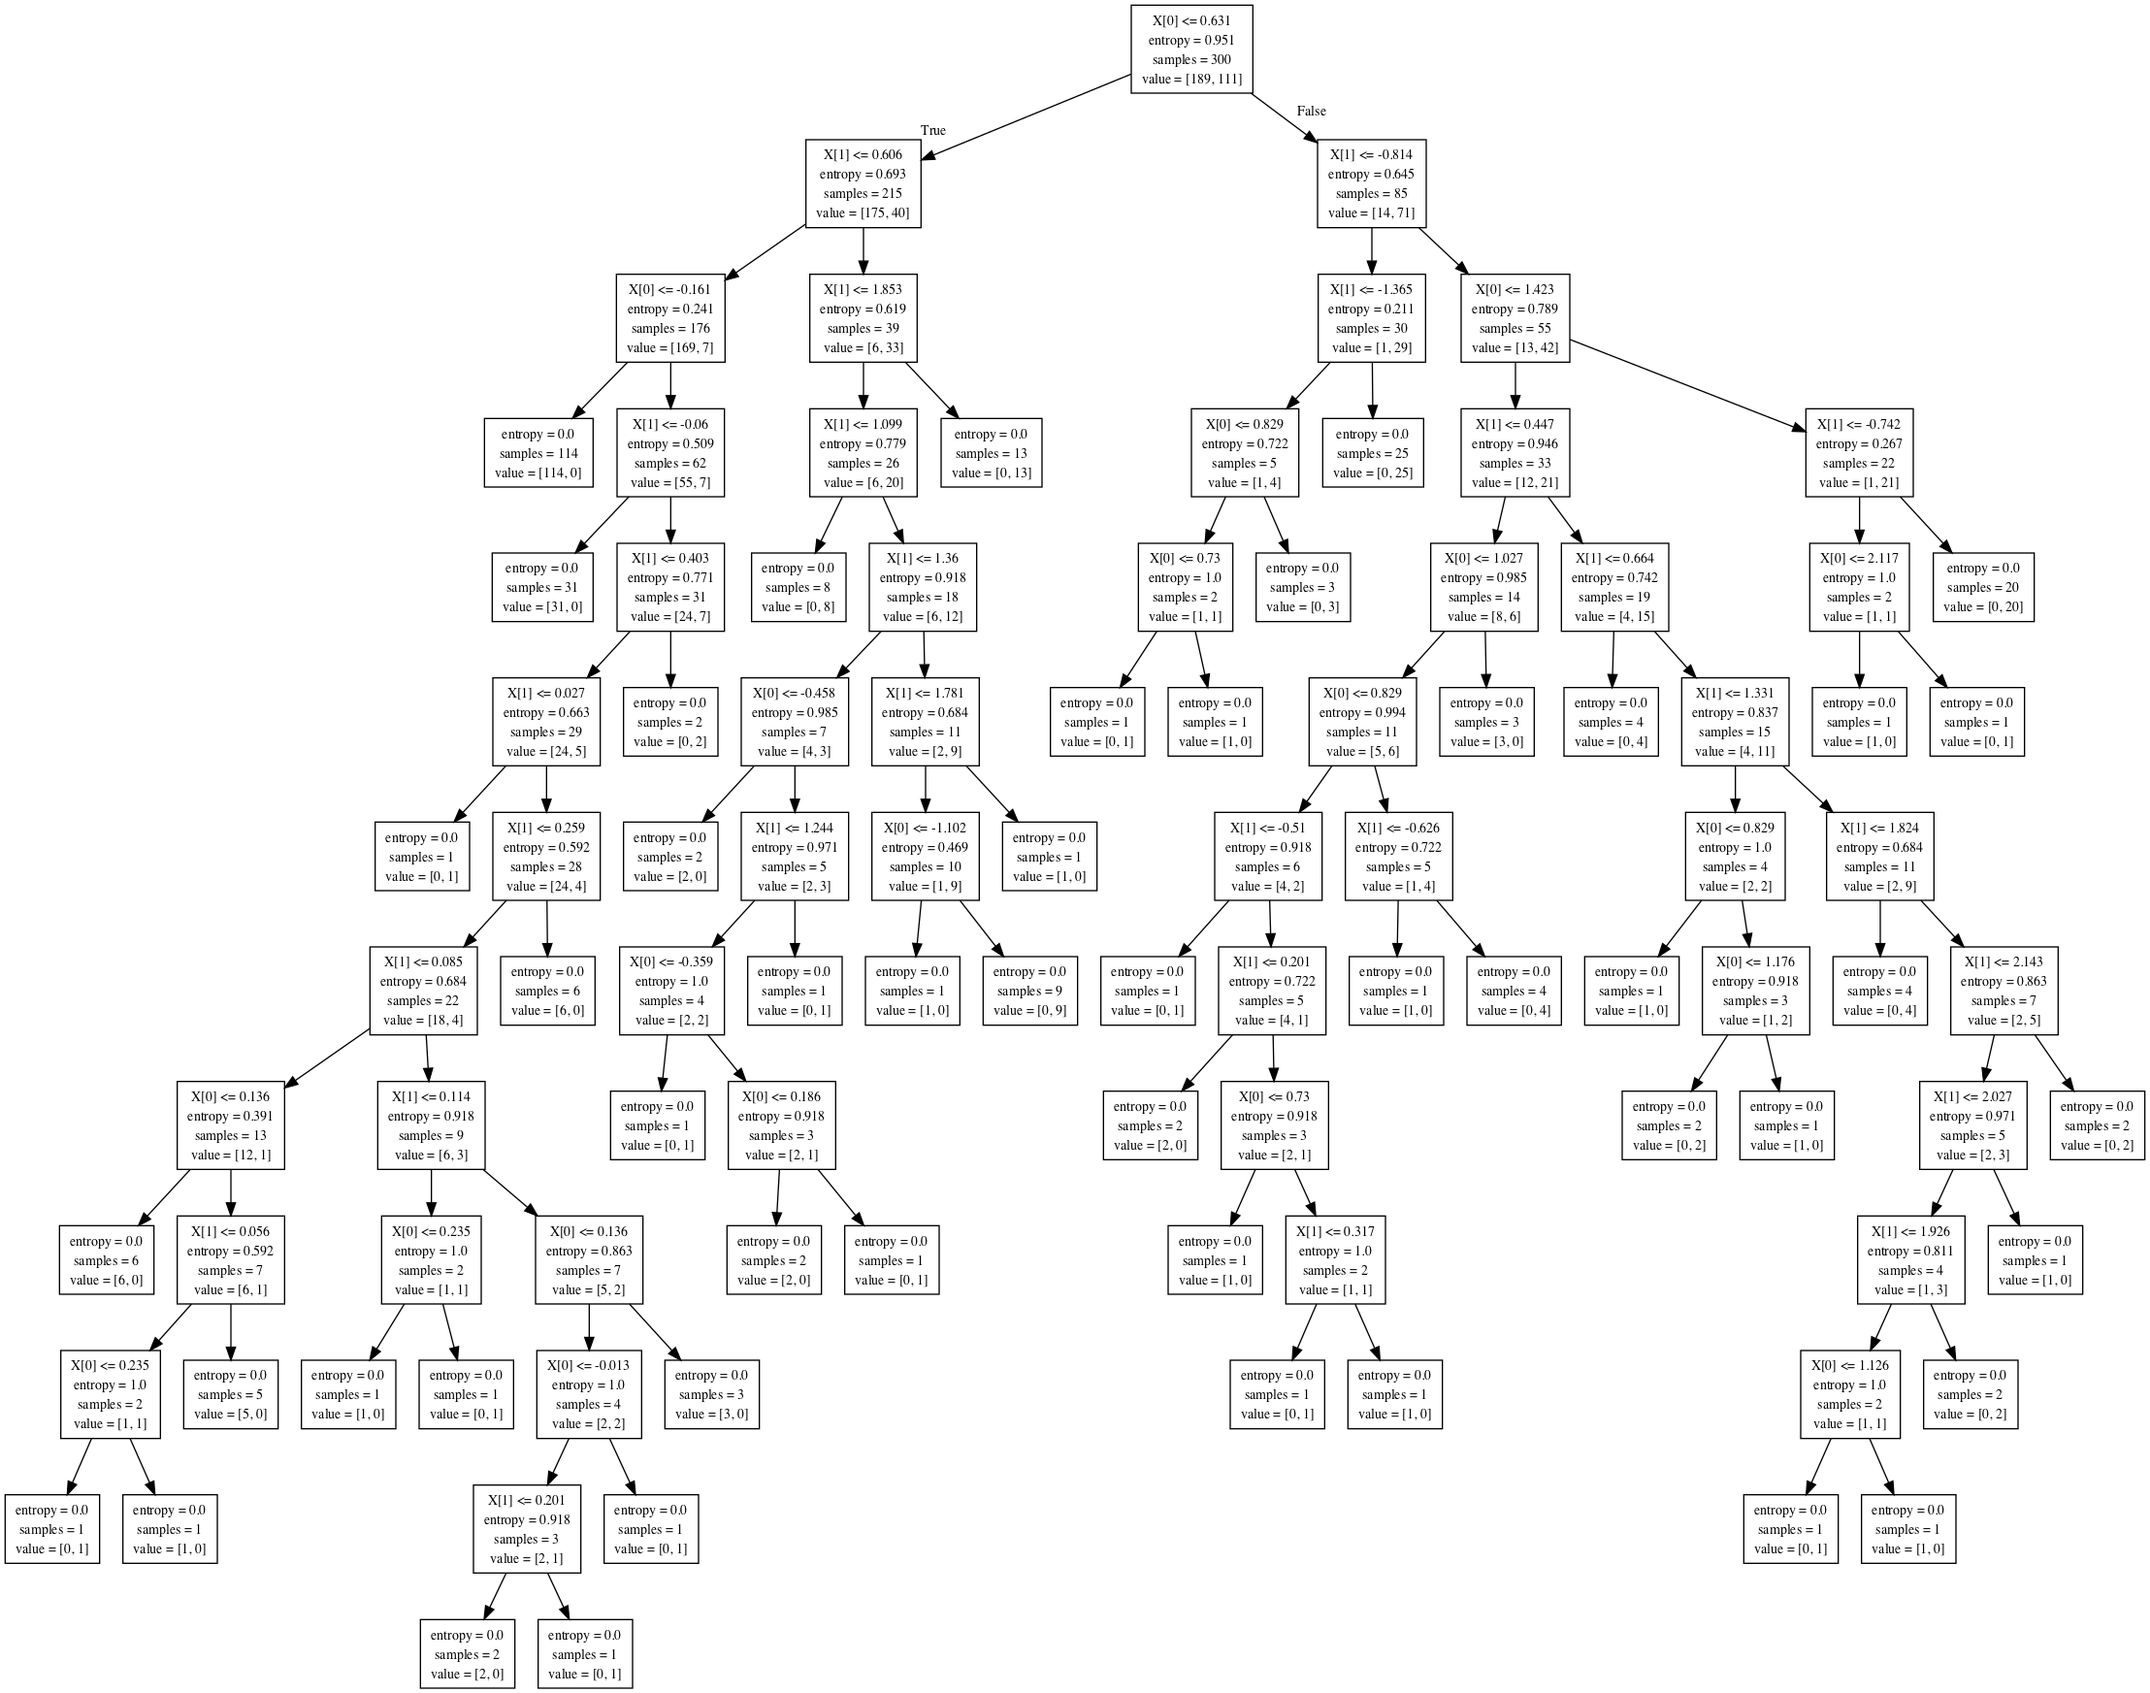
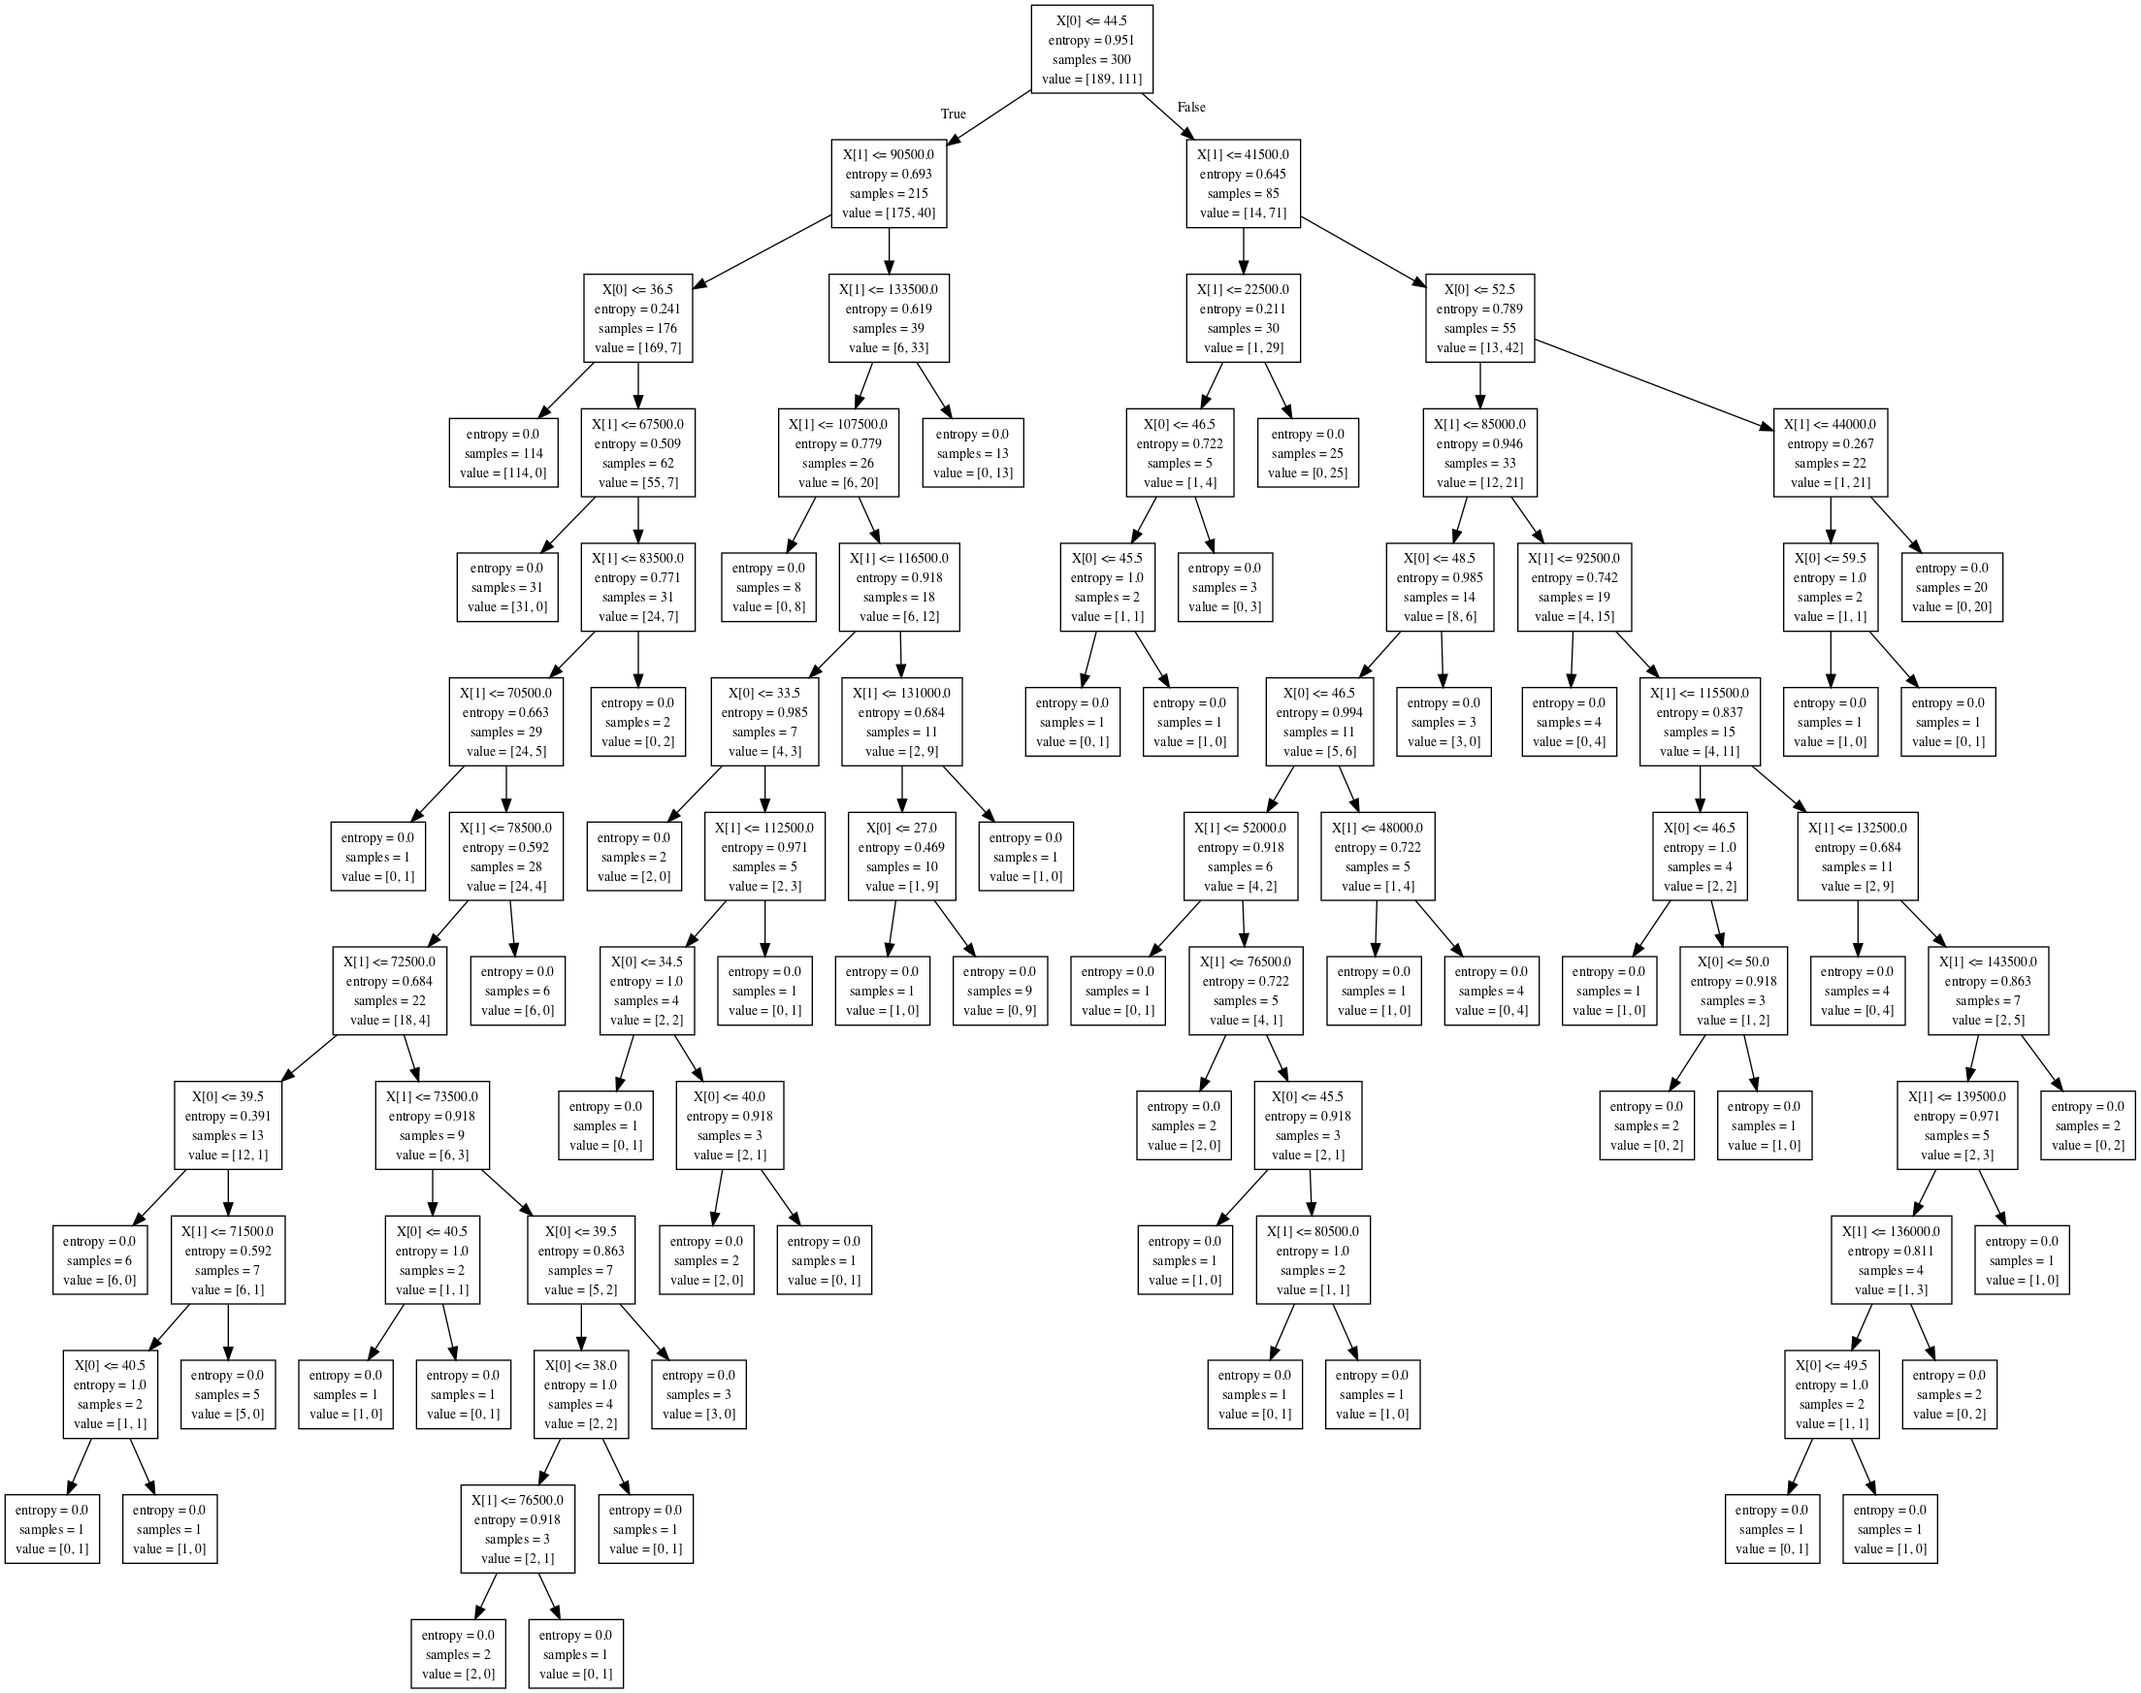
Decision Tree Classification

diff --git a/Classification/DecisionTreeClassification/decision_tree_classification.py b/Classification/DecisionTreeClassification/decision_tree_classification.py
@@ -76,6 +76,7 @@ plt.ylabel('Salary')
 plt.legend()
 plt.show()
 
+# Before plotting the Decision Tree remove the feature scaling from the dataset
 # Plotting the Decision Tree and saving it in the current working directory
 from sklearn import tree
 from os import system
